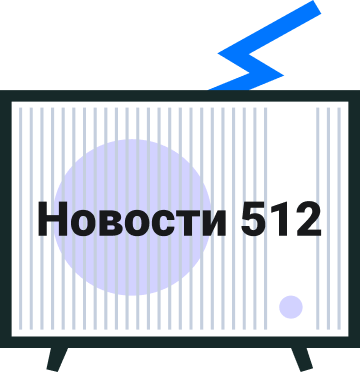
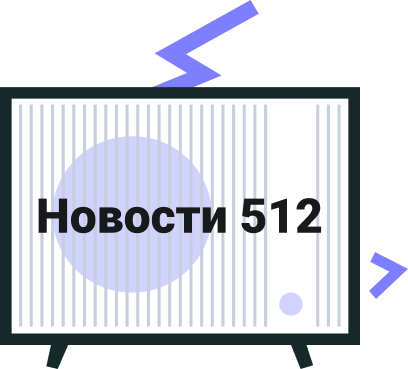
fix: COM-3518 Fix PostNewsletter position

diff --git a/components/PostNewsletter/PostNewsletter.styles.js b/components/PostNewsletter/PostNewsletter.styles.js
@@ -11,20 +11,14 @@ const base = ({ breakpoints: { mobile, tablet, desktop } }) => css`
     grid-row: 1 / span 5;
     width: ${calcRem(156)};
     height: max-content;
-    padding: ${calcRem(10)};
-    background-color: white;
     transition: top ease 0.5s, bottom ease 0.5s;
-  }
-
-  &.without_subscribe-form {
-    padding: 0;
-    background-color: transparent;
   }
 
   .container {
     display: flex;
     flex-direction: column;
-    max-width: ${calcRem(136)};
+    max-width: ${calcRem(156)};
+    padding: ${calcRem(10)};
   }
 
   .title {
@@ -38,6 +32,8 @@ const base = ({ breakpoints: { mobile, tablet, desktop } }) => css`
   }
 
   .picture {
+    max-width: ${calcRem(136)};
+
     & img {
       width: 100%;
     }
@@ -45,11 +41,10 @@ const base = ({ breakpoints: { mobile, tablet, desktop } }) => css`
 
   ${desktop.all} {
     & {
-      margin-top: 40px;
+      margin-top: 50px;
     }
 
     &.with_news_podcast {
-      margin-top: 64px;
       top: 166px;
     }
 
@@ -97,9 +92,7 @@ const base = ({ breakpoints: { mobile, tablet, desktop } }) => css`
     & {
       left: 0;
       top: ${calcRem(112)};
-      width: ${calcRem(160)};
-      padding-left: ${calcRem(12)};
-      padding-right: ${calcRem(12)};
+      width: ${calcRem(156)};
       // http://s.csssr.ru/U31J879TR/2021-03-05-11-10-29-3f7ga_.jpg
       transform: translate(calc(((100vw - ${calcRem(624)}) / 2 - 100%) / -2 ), ${calcRem(29)});
       // using big span number, to prevent white spaces between grid rows

diff --git a/components/ContactForm/ContactForm.styles.js b/components/ContactForm/ContactForm.styles.js
@@ -25,7 +25,7 @@ const base = ({ breakpoints: { tablet, mobile }, colors }) => css`
         width: 100%;
         padding: 0;
         font-size: ${calcRem(12)};
-        line-height: ${calcRem(24)};
+        line-height: ${calcRem(19)};
         overflow: hidden;
         text-overflow: ellipsis;
 
@@ -34,7 +34,7 @@ const base = ({ breakpoints: { tablet, mobile }, colors }) => css`
           line-height: ${calcRem(12)};
         }
       }
-      
+
       .submit > button {
         height: ${calcRem(30)};
         margin-top: ${calcRem(20)};
@@ -173,7 +173,7 @@ const base = ({ breakpoints: { tablet, mobile }, colors }) => css`
       border-color: transparent;
     }
 
-    .buttonWrapper:not(.submitting) .progress-circle, 
+    .buttonWrapper:not(.submitting) .progress-circle,
     .buttonWrapper_mobile:not(.submitting) .progress-circle {
       display: none;
     }
@@ -244,7 +244,7 @@ const base = ({ breakpoints: { tablet, mobile }, colors }) => css`
       height: ${calcRem(40)};
       margin-left: ${calcRem(-12)};
       transform: rotateZ(14deg) scale(1.2);
-      
+
       & path {
         stroke: ${colors.secondary.darken100} !important;
       }
@@ -473,7 +473,6 @@ const base = ({ breakpoints: { tablet, mobile }, colors }) => css`
         }
       }
     }
-    
   }
 `
 

diff --git a/components/PostShare/PostShare.styles.js b/components/PostShare/PostShare.styles.js
@@ -3,20 +3,10 @@ import calcRem from '../../utils/style/calcRem'
 
 const base = ({ breakpoints: { tablet, mobile, desktop }, colors }) => css`
   & {
-    margin-top: ${calcRem(50)};
-    transform: translateX(${calcRem(-10)});
+    margin-top: ${calcRem(40)};
     background-color: white;
     max-width: ${calcRem(89)};
     padding: ${calcRem(10)};
-
-    &.without_margin_top {
-      margin-top: 0;
-      transform: unset;
-    }
-
-    &.with_news_podcast {
-      margin-left: 10px;
-    }
   }
 
   .links {
@@ -101,41 +91,11 @@ const base = ({ breakpoints: { tablet, mobile, desktop }, colors }) => css`
   }
 
   ${desktop.all} {
-    &.without_margin_top {
-      margin-left: auto;
-    }
-
-    &.with_news_podcast {
-      margin-left: 10px;
-      margin-top: 57px;
-    }
-
     &.without_aligning {
       margin-left: unset;
     }
   }
 
-  ${tablet.all} {
-    & {
-      padding-left: ${calcRem(12)};
-      padding-right: ${calcRem(12)};
-    }
-
-    &.without_margin_top {
-      margin-right: auto;
-      margin-left: auto;
-    }
-
-    &.without_margin_top.with_news_podcast {
-      margin: unset;
-      transform: translateX(${calcRem(7)});
-    }
-
-    &.without_aligning {
-      margin-right: unset;
-      margin-left: unset;
-    }
-  }
 
   ${mobile.all} {
     & {

diff --git a/components/PostNewsletter/NewsPodcast/NewsPodcast.styles.js b/components/PostNewsletter/NewsPodcast/NewsPodcast.styles.js
@@ -1,21 +1,20 @@
 import { css } from '@emotion/react'
 import calcRem from '../../../utils/style/calcRem'
 
-const base = ({ breakpoints: { desktop, tablet, mobile }, colors }) => css`
+const base = ({ breakpoints: { tablet, mobile }, colors }) => css`
   & {
     display: flex;
     flex-direction: column;
     margin-left: auto;
-    margin-bottom: ${calcRem(67)};
     background-color: white;
-    transform: translateX(${calcRem(18)});
+    padding: ${calcRem(10)};
   }
 
   .picture {
-    max-width: ${calcRem(120)};
+    max-width: ${calcRem(136)};
 
     & img {
-      max-width: ${calcRem(120)};
+      max-width: ${calcRem(136)};
     }
   }
 
@@ -49,27 +48,13 @@ const base = ({ breakpoints: { desktop, tablet, mobile }, colors }) => css`
     text-decoration: underline;
   }
 
-  ${desktop.all} {
-    & {
-      margin-bottom: 69px;
-    }
-  }
-
   ${tablet.all} {
     & {
-      margin-left: auto;
       margin-right: auto;
-      margin-bottom: ${calcRem(47)};
-      transform: unset;
     }
 
     .picture {
       align-self: center;
-    }
-
-    .links {
-      margin-top: ${calcRem(20)};
-      margin-left: ${calcRem(20)};
     }
   }
 
